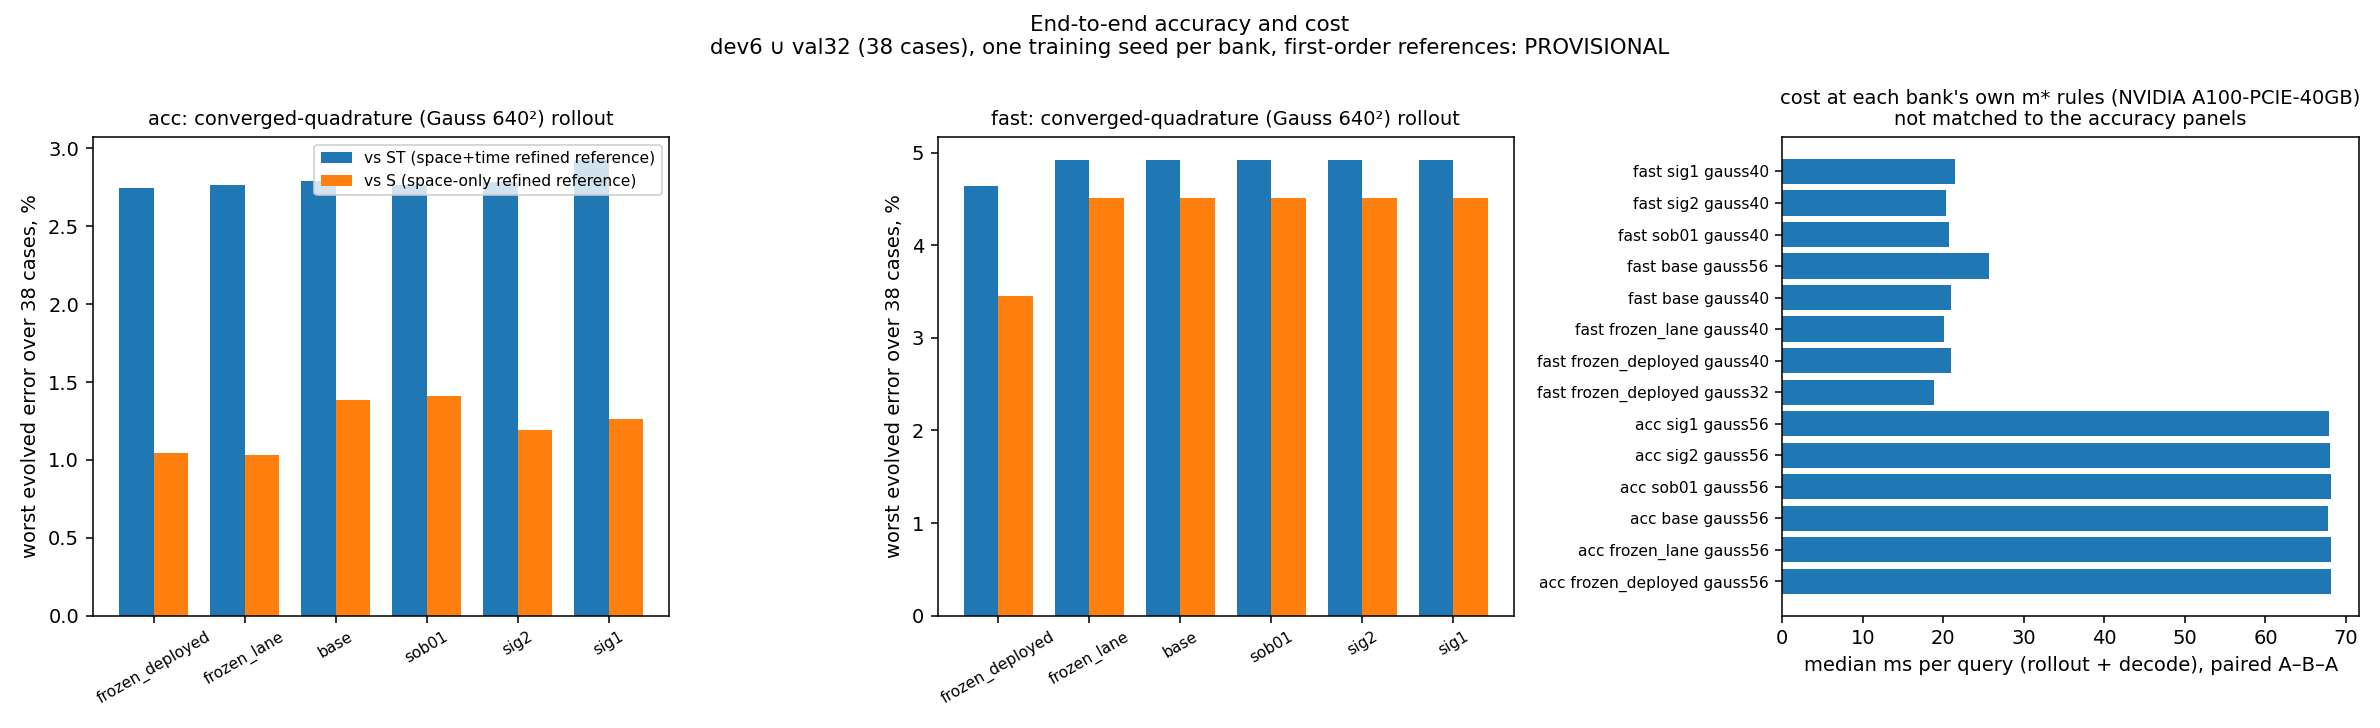
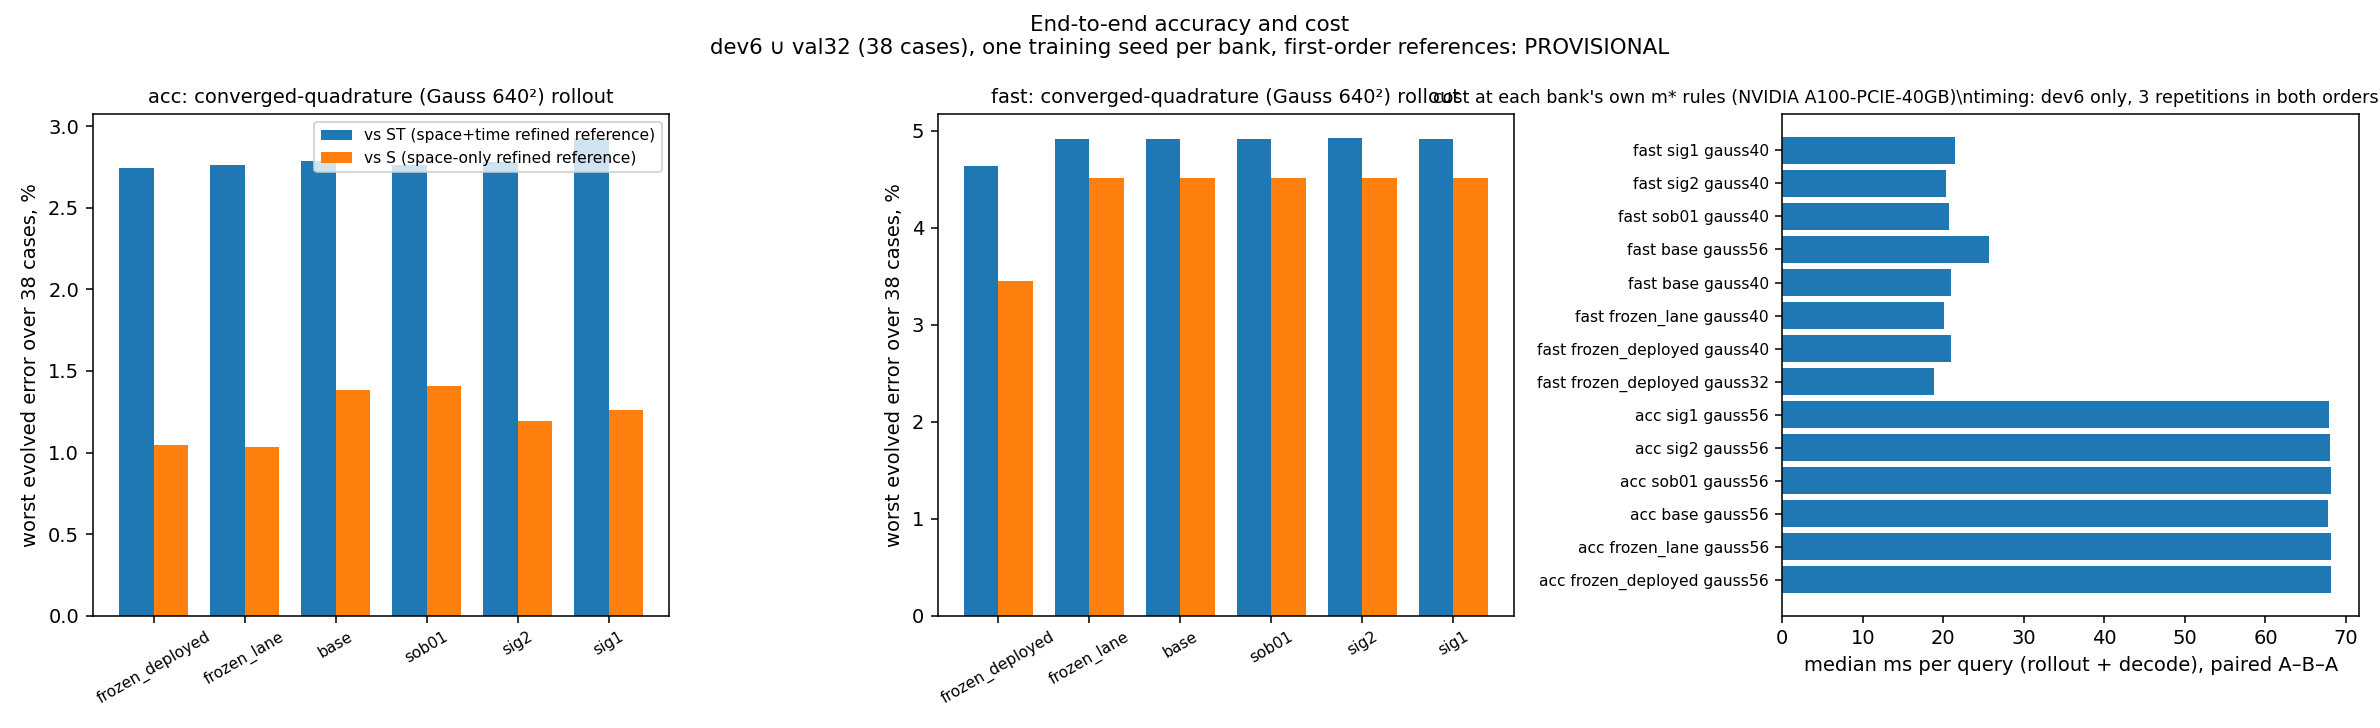
mirror of 78c584a89: jcp-smooth-bank: report-audit-2 fixes (R1 targets extracted from the 2D lane result with sha, LM wording, H2 split, captions, frontier labels)

diff --git a/experiments/jcp-smooth-bank/make_report.py b/experiments/jcp-smooth-bank/make_report.py
@@ -271,8 +271,8 @@ def verdicts(E, T, M):
     return out
 
 
-R1_PINNED = dict(acc=dict(g64_lat64=0.01855400027, gref_ST=0.02746551840, lat64_ST=0.03383906214),
-                 fast=dict(g64_lat64=0.02329974040, gref_ST=0.04636993877, lat64_ST=0.05032507568))
+R1_SRC = json.loads((HERE / 'results/r1_targets_from_2d_lane.json').read_text())   # extracted from the 2D lane's dv1024 result.json (sha256 recorded)
+R1_PINNED = R1_SRC['targets']
 
 
 def r1_gate(E):
@@ -316,6 +316,13 @@ def plots(E, M, out):
                         continue
                     ax[i, j].scatter(m, y, color=cols[b], marker=mk, s=60, alpha=.85,
                                      label=(b if (bb == 0.06 and i == 0 and j == 0) else None))
+            groups = {}
+            for b in banks:                              # name every bank at its (possibly shared) square marker
+                m = M[b][s]['mstar']['gref|G|0.06']
+                if m is not None:
+                    groups.setdefault((m, round(100 * M[b][s][key], 2)), []).append(b)
+            for (m, y), names in groups.items():
+                ax[i, j].annotate(', '.join(names), (m, y), fontsize=6, xytext=(5, -2), textcoords='offset points', va='top')
             ax[i, j].set_xscale('log')
             ax[i, j].set_xlabel('Gauss points needed m* (confirmed rung): square ρ≤0.06, circle ρ≤0.01', fontsize=9)
             ax[i, j].set_ylabel(ylab, fontsize=9)
@@ -387,7 +394,7 @@ def e2e_plot(E, M, TM, out):
             lab.append(k.replace('|', ' ')); val.append(v)
         ax[2].barh(np.arange(len(val)), val); ax[2].set_yticks(np.arange(len(val))); ax[2].set_yticklabels(lab, fontsize=8)
         ax[2].set_xlabel('median ms per query (rollout + decode), paired A–B–A')
-        ax[2].set_title(f"cost at each bank's own m* rules ({TM['gpu']})\nnot matched to the accuracy panels", fontsize=10)
+        ax[2].set_title(f"cost at each bank's own m* rules ({TM['gpu']})\\ntiming: dev6 only, 3 repetitions in both orders; not matched to the accuracy panels", fontsize=9)
     fig.suptitle('End-to-end accuracy and cost\n' + CAPTION, fontsize=11)
     fig.tight_layout(); fig.savefig(out / 'e2e.png', dpi=140); plt.close(fig)
 
@@ -459,12 +466,12 @@ def main():
         R_ = lambda b, s, r, p='gref': E[b]['settings'][s]['rho'][r][p]['max']
         dS = lambda t, s, k: 100 * (M[t][s][k] / M['base'][s][k] - 1)
         accm = sorted({ms(b, 'acc', 0.06) for b in banks})
-        w(f"- **H2 (smoothness lowers the points needed): no resolved improvement.** In `acc` the own-state $m^*(0.06)$ is {', '.join(map(str, accm))} for every bank. "
+        w(f"- **H2 (smoothness lowers the points needed): no resolved improvement** (sig1, sig2: UNRESOLVED; sob01: not met). In `acc` the own-state $m^*(0.06)$ is {', '.join(map(str, accm))} for every bank. "
           f"In `fast` it is {ms('base','fast',0.06)} for `base` and {ms('sig1','fast',0.06)} / {ms('sig2','fast',0.06)} / {ms('sob01','fast',0.06)} for sig1 / sig2 / sob01. "
           f"However, `frozen_lane` (the same recipe and seed as `base`) gives {ms('frozen_lane','fast',0.06)}, so the pre-registered verdict is UNRESOLVED, not a pass.")
         w(f"- **Onset.** Gauss 32² gives worst ρ {fmt(min(R_(b,'acc','gauss32') for b in banks))}–{fmt(max(R_(b,'acc','gauss32') for b in banks))} in `acc` for every bank. "
           f"The restricted-vector diagnostic (first 320 tests only, own denominator, solver not rerun) gives {fmt(min(E[b]['settings']['acc']['rho']['gauss32']['gref']['max_320'] for b in banks))}–{fmt(max(E[b]['settings']['acc']['rho']['gauss32']['gref']['max_320'] for b in banks))}. "
-          f"This is consistent with a test-frequency contribution to the onset, which a smoother bank cannot remove.")
+          f"This is consistent with a test-frequency contribution to the onset.")
         tv = [M[b][x]['tail']['gref']['varrho'] for b in banks for x in SETTINGS]
         w(f"- **Tail.** Smaller initial σ gives steeper fitted Gauss tails in these runs: in `acc` the fitted parameter is {M['base']['acc']['tail']['gref']['varrho']:.4f} (base), {M['sig2']['acc']['tail']['gref']['varrho']:.4f} (sig2) and {M['sig1']['acc']['tail']['gref']['varrho']:.4f} (sig1); over all banks and settings it spans {min(tv):.4f}–{max(tv):.4f}. "
           f"Worst ρ at Gauss 128² is {fmt(R_('sig1','acc','gauss128'))} (sig1), {fmt(R_('base','acc','gauss128'))} (base) and {fmt(R_('frozen_deployed','acc','gauss128'))} (frozen); at Gauss 256² it is {fmt(R_('sig1','acc','gauss256'))} (sig1) and {fmt(R_('base','acc','gauss256'))} (base). These rungs lie past the 0.01 bar.")
@@ -480,7 +487,7 @@ def main():
             w(f"- **Cost.** At the fixed `acc` setting and rule (every bank's $m^*$ there is the same Gauss rung), the observed per-query medians lie in {min(av):.1f}–{max(av):.1f} ms on one {TM['gpu']}.")
         w('- **Pre-registered outcome:** no useful winner, so nothing is promoted to 3D and `comb` is not run (A1.5). The round-1 verdicts are provisional until the seed-1 comparator `base_s1` (round 2) is evaluated.\n')
     w('## Method in one screen\n')
-    w('Each backward-Euler step solves $r(c)=D\\big(Ac-p+\\Delta t\\,(N(c)+\\nu\\Lambda Ac)\\big)=0$ with the tested advection '
+    w('Each backward-Euler step approximately minimises $\\tfrac12\\lVert r(c)\\rVert_2^2$ by Levenberg–Marquardt, with $r(c)=D\\big(Ac-p+\\Delta t\\,(N(c)+\\nu\\Lambda Ac)\\big)$ ($A=\\Phi^{\\mathsf T}G\'$ the exact projection on the $M$ sine tests, $\\Lambda$ their eigenvalues, $D=(I+\\Delta t\\nu\\Lambda)^{-1}$, $p$ the previous step) and the tested advection '
       '$N_a(c)=L\\sum_q w_q\\,\\psi_a(x_q)\\,u(x_q)\\,(u_x+u_y)(x_q)$, where $u=G\'(x)c$ is the rotated bank. For a rule $Q$ and a state $c$, '
       '$\\rho_Q(c)=\\lVert N^{Q}(c)-N^{\\mathrm{G640}}(c)\\rVert_2/\\lVert N^{\\mathrm{G640}}(c)\\rVert_2$. The Sobolev arm adds '
       '$\\lambda\\,\\overline{\\lVert\\nabla\\hat u-D_hu\\rVert^2}/\\overline{\\lVert D_hu\\rVert^2}$ to the value loss, with $D_h$ second-order central differences on the training mesh. '
@@ -614,7 +621,7 @@ def main():
             f"tight-solver distance {fmt(M[b][s]['tight_max'])}, eligibility {'ok' if not el[s] else 'FAILED: ' + ', '.join(el[s])}"
             for s in SETTINGS) + '.')
     w('')
-    w(f"- **R1** (frozen bank with the deployed rotation reproduces the 2D lane at $1024^2$): {'pass' if R1['passed'] else 'FAIL'} — " + '; '.join(
+    w(f"- **R1** (frozen bank with the deployed rotation reproduces the 2D lane's job {R1_SRC['job_id']} at $1024^2$; errors PROVISIONAL): {'pass' if R1['passed'] else 'FAIL'} — " + '; '.join(
         f"{s}: Gauss 64² worst ρ on lat64 states {fmt(v['g64_lat64'])} (2D lane {fmt(R1_PINNED[s]['g64_lat64'])}), gref worst ST {pct(v['gref_ST'])}% ({pct(R1_PINNED[s]['gref_ST'])}%), lat64 worst ST {pct(v['lat64_ST'])}% ({pct(R1_PINNED[s]['lat64_ST'])}%)"
         for s, v in R1.get('per_setting', {}).items()) + '.')
     w('')

diff --git a/experiments/jcp-smooth-bank/report.md b/experiments/jcp-smooth-bank/report.md
@@ -12,8 +12,8 @@ Retrains the Burgers 2D coordinate-network bank with a gradient-matching (Sobole
 
 ## Answers in brief (generated; PROVISIONAL, development/validation, one training seed per bank)
 
-- **H2 (smoothness lowers the points needed): no resolved improvement.** In `acc` the own-state $m^*(0.06)$ is 3136 for every bank. In `fast` it is 3136 for `base` and 1600 / 1600 / 1600 for sig1 / sig2 / sob01. However, `frozen_lane` (the same recipe and seed as `base`) gives 1600, so the pre-registered verdict is UNRESOLVED, not a pass.
-- **Onset.** Gauss 32² gives worst ρ 1.61–1.61 in `acc` for every bank. The restricted-vector diagnostic (first 320 tests only, own denominator, solver not rerun) gives 0.107–0.142. This is consistent with a test-frequency contribution to the onset, which a smoother bank cannot remove.
+- **H2 (smoothness lowers the points needed): no resolved improvement** (sig1, sig2: UNRESOLVED; sob01: not met). In `acc` the own-state $m^*(0.06)$ is 3136 for every bank. In `fast` it is 3136 for `base` and 1600 / 1600 / 1600 for sig1 / sig2 / sob01. However, `frozen_lane` (the same recipe and seed as `base`) gives 1600, so the pre-registered verdict is UNRESOLVED, not a pass.
+- **Onset.** Gauss 32² gives worst ρ 1.61–1.61 in `acc` for every bank. The restricted-vector diagnostic (first 320 tests only, own denominator, solver not rerun) gives 0.107–0.142. This is consistent with a test-frequency contribution to the onset.
 - **Tail.** Smaller initial σ gives steeper fitted Gauss tails in these runs: in `acc` the fitted parameter is 1.0221 (base), 1.0251 (sig2) and 1.0322 (sig1); over all banks and settings it spans 1.0185–1.0322. Worst ρ at Gauss 128² is 3.57e-04 (sig1), 9.27e-03 (base) and 2.11e-03 (frozen); at Gauss 256² it is 3.18e-06 (sig1) and 3.09e-04 (base). These rungs lie past the 0.01 bar.
 - **Representation.** Neither smaller-σ run increases the median `acc` projection floor (2.43e-04 base, 2.30e-04 sig2, 2.24e-04 sig1). The trained Fourier frequencies stay near their initial scale: the final median ‖B_j‖ is 1.15 for sig1 and 4.64 for base.
 - **H1 (Sobolev).** Against the common-support **mesh** derivative targets, sob01 lowers the median gradient error by 70.3% (D2) / 69.7% (D4) and the median projection floor by 38.2% in `acc`. In `fast` the reductions are only 20.2% / 17.8%. Its converged-quadrature rollout error vs S changes by +1.7% (`acc`) and -0.01% (`fast`), so there is no resolved rollout improvement in this run. H1 is not met.
@@ -24,7 +24,7 @@ Retrains the Burgers 2D coordinate-network bank with a gradient-matching (Sobole
 
 ## Method in one screen
 
-Each backward-Euler step solves $r(c)=D\big(Ac-p+\Delta t\,(N(c)+\nu\Lambda Ac)\big)=0$ with the tested advection $N_a(c)=L\sum_q w_q\,\psi_a(x_q)\,u(x_q)\,(u_x+u_y)(x_q)$, where $u=G'(x)c$ is the rotated bank. For a rule $Q$ and a state $c$, $\rho_Q(c)=\lVert N^{Q}(c)-N^{\mathrm{G640}}(c)\rVert_2/\lVert N^{\mathrm{G640}}(c)\rVert_2$. The Sobolev arm adds $\lambda\,\overline{\lVert\nabla\hat u-D_hu\rVert^2}/\overline{\lVert D_hu\rVert^2}$ to the value loss, with $D_h$ second-order central differences on the training mesh. The projection floor is $\min_c\lVert G'c-u_{\rm ref}\rVert/\lVert u_{\rm ref}\rVert$ on the 257² nodes, and the gradient error is that of $\nabla(G'c^\star)$ against $D^{(2)}u_{\rm ref}$ or $D^{(4)}u_{\rm ref}$.
+Each backward-Euler step approximately minimises $\tfrac12\lVert r(c)\rVert_2^2$ by Levenberg–Marquardt, with $r(c)=D\big(Ac-p+\Delta t\,(N(c)+\nu\Lambda Ac)\big)$ ($A=\Phi^{\mathsf T}G'$ the exact projection on the $M$ sine tests, $\Lambda$ their eigenvalues, $D=(I+\Delta t\nu\Lambda)^{-1}$, $p$ the previous step) and the tested advection $N_a(c)=L\sum_q w_q\,\psi_a(x_q)\,u(x_q)\,(u_x+u_y)(x_q)$, where $u=G'(x)c$ is the rotated bank. For a rule $Q$ and a state $c$, $\rho_Q(c)=\lVert N^{Q}(c)-N^{\mathrm{G640}}(c)\rVert_2/\lVert N^{\mathrm{G640}}(c)\rVert_2$. The Sobolev arm adds $\lambda\,\overline{\lVert\nabla\hat u-D_hu\rVert^2}/\overline{\lVert D_hu\rVert^2}$ to the value loss, with $D_h$ second-order central differences on the training mesh. The projection floor is $\min_c\lVert G'c-u_{\rm ref}\rVert/\lVert u_{\rm ref}\rVert$ on the 257² nodes, and the gradient error is that of $\nabla(G'c^\star)$ against $D^{(2)}u_{\rm ref}$ or $D^{(4)}u_{\rm ref}$.
 
 ## Training
 
@@ -196,7 +196,7 @@ Each cell: ST / S.
 - `sig2`: C5a min rel. error 1.54e-07; acc: C4 pass, gref-vs-768 rollout 1.10e-13, tight-solver distance 3.06e-06, eligibility ok; fast: C4 pass, gref-vs-768 rollout 1.11e-13, tight-solver distance 1.70e-05, eligibility ok.
 - `sig1`: C5a min rel. error 1.75e-07; acc: C4 pass, gref-vs-768 rollout 5.81e-15, tight-solver distance 3.00e-06, eligibility ok; fast: C4 pass, gref-vs-768 rollout 5.83e-15, tight-solver distance 1.70e-05, eligibility ok.
 
-- **R1** (frozen bank with the deployed rotation reproduces the 2D lane at $1024^2$): pass — acc: Gauss 64² worst ρ on lat64 states 0.0186 (2D lane 0.0186), gref worst ST 2.747% (2.747%), lat64 worst ST 3.384% (3.384%); fast: Gauss 64² worst ρ on lat64 states 0.0233 (2D lane 0.0233), gref worst ST 4.637% (4.637%), lat64 worst ST 5.033% (5.033%).
+- **R1** (frozen bank with the deployed rotation reproduces the 2D lane's job 4735709 at $1024^2$; errors PROVISIONAL): pass — acc: Gauss 64² worst ρ on lat64 states 0.0186 (2D lane 0.0186), gref worst ST 2.747% (2.747%), lat64 worst ST 3.384% (3.384%); fast: Gauss 64² worst ρ on lat64 states 0.0233 (2D lane 0.0233), gref worst ST 4.637% (4.637%), lat64 worst ST 5.033% (5.033%).
 
 ## Verdicts (DESIGN A1.5, A2.4, A4; PROVISIONAL, development/validation; one seed per arm)
 

diff --git a/experiments/jcp-smooth-bank/audits/codex-report-2.md b/experiments/jcp-smooth-bank/audits/codex-report-2.md
@@ -1,0 +1,16 @@
+Read-only audit completed; all five PNGs inspected. The report reproduces byte-for-byte in memory. Independent checks passed for 4,140 quadrature statistics, 216 thresholds, 96 projection summaries and 14 timing medians.
+
+**CORRECT:** prior items on arithmetic, tails, representation, Sobolev effects, unidentified rollout limitation, treatment-versus-base noise, evaluation procedure, cost, and no promotion. Plot items **ladders, derivatives, e2e and spectra: CORRECT**.
+
+Remaining problems:
+
+| Prior item | Verdict | Concrete fix |
+|---|---|---|
+| Every number generated | **WRONG** | `make_report.py` still embeds numerical prose: “first 320 tests,” “257² nodes,” “256 vs 512 … within 2,” training-state count, query steps/output count, and plot cohort/sample sizes. Historical R1 comparison values also remain literal `R1_PINNED` constants. Generate these from configuration/results or pinned source evidence; assert population-wide statements. The R2b discrepancy is now correctly extracted. |
+| Points/H2 summary | **NEEDS-RESTATEMENT** | The brief groups sig1/sig2/sob01 before saying “the pre-registered verdict is UNRESOLVED.” The detailed verdict is **UNRESOLVED for sig1/sig2, not met for sob01**. State that distinction explicitly. |
+| Onset claim | **NEEDS-RESTATEMENT** | Delete “**which a smoother bank cannot remove**.” The restricted-vector diagnostic supports consistency with a test-frequency contribution, not impossibility of changing onset through bank smoothness. |
+| Status/provisional labels | **NEEDS-RESTATEMENT** | R1 still quotes accuracy percentages without a nearby **PROVISIONAL** label. Add it directly to that bullet. |
+| Glossary and mathematics | **WRONG** | “Each … step solves \(r(c)=0\)” misstates the implemented overdetermined LM least-squares solve. Write “approximately minimizes \(\tfrac12\lVert r(c)\rVert_2^2\).” Define its symbols. Convert remaining glossary equations to LaTeX and specify that projection/derivative aggregates pool **228 states, including initialization**, whereas evolved rollout errors exclude initialization. |
+| `frontier.png` | **NEEDS-RESTATEMENT** | Layout and threshold semantics are fixed, but overlapping markers still hide several banks, especially in `fast`. Use bank facets or annotated grouped markers so every bank is identifiable without changing its coordinates. |
+
+One additional caption fix: `e2e.png`’s shared **38-case** caption can imply that timing uses the same cohort. Add **“Timing: dev6 only, three repetitions in both ordering directions”** to the timing panel.
